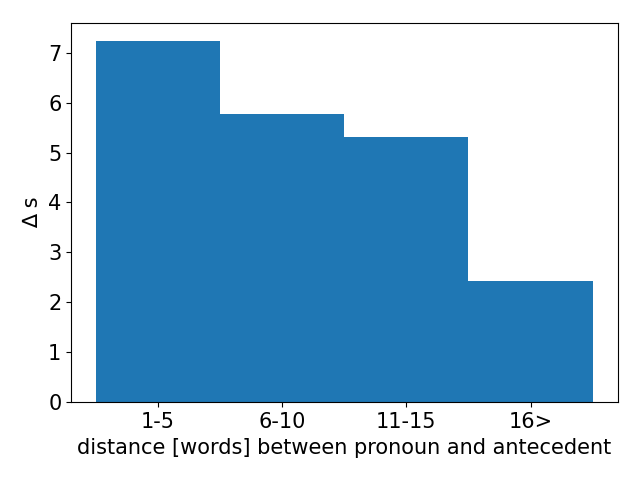
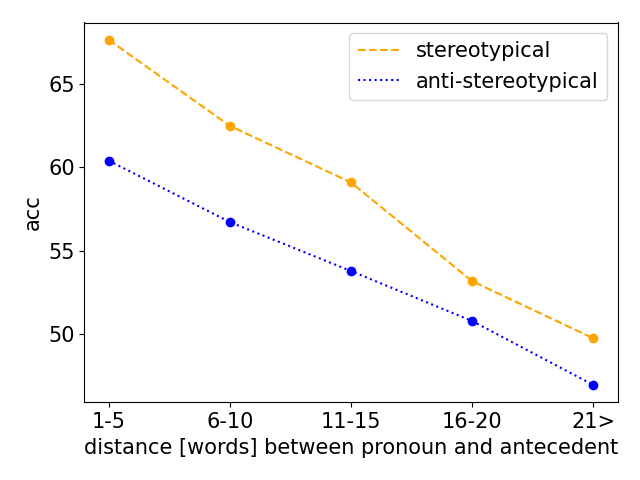
coref evaluations

diff --git a/src/evaluations/evaluate_coref.py b/src/evaluations/evaluate_coref.py
@@ -4,9 +4,9 @@
 Options:
   --help                           Show this message and exit
   -i INPUT_FILE --in=INPUT_FILE    Input file
-                                   [default: infile.tmp]
+                                   [default: ../../predictions/coref_preds.jsonl]
   -o INPUT_FILE --out=OUTPUT_FILE  Input file
-                                   [default: outfile.tmp]
+                                   [default: ../../visualizations/delta_s_by_dist.png]
   --debug                          Whether to debug
 """
 # External imports
@@ -85,15 +85,20 @@ def get_delta_s_by_dist(dist_metric):
                                 len(ste) + len(ant)))
     return delta_s_by_dist
 
-def get_acc_by_dist(dist_metric):
+def get_simple_metric_by_dist(dist_metric, metric_name):
     """
-    Compute delta s by distance
+    Aggregate over a given metric by dist.
     """
     dists = sorted(dist_metric.keys())
-    acc_by_dist = []
+    met_by_dist = []
     for dist in dists:
-        acc_by_dist.append(get_acc(dist_metric[dist]["acc"]))
-    return acc_by_dist
+        met_by_dist.append(get_acc(dist_metric[dist][metric_name]))
+    return met_by_dist
+
+# Simple instantiations
+get_acc_by_dist = lambda dist_metric: get_simple_metric_by_dist(dist_metric, "acc")
+get_ste_by_dist = lambda dist_metric: get_simple_metric_by_dist(dist_metric, 1)
+get_ant_by_dist = lambda dist_metric: get_simple_metric_by_dist(dist_metric, -1)
 
 def average_buckets(b1, b2):
     """
@@ -162,10 +167,12 @@ if __name__ == "__main__":
     delta_s = get_acc(metrics["ste"]) - get_acc(metrics["ant"])
     delta_s_by_dist = get_delta_s_by_dist(metrics["distance"])
     acc_by_dist = get_acc_by_dist(metrics["distance"])
+    ste_by_dist = get_ste_by_dist(metrics["distance"])
+    ant_by_dist = get_ant_by_dist(metrics["distance"])
 
     # average last bucket
-    delta_s_by_dist[-2] = average_buckets(delta_s_by_dist[-2], delta_s_by_dist[-1])
-    delta_s_by_dist = delta_s_by_dist[:-1]
+    # delta_s_by_dist[-2] = average_buckets(delta_s_by_dist[-2], delta_s_by_dist[-1])
+    # delta_s_by_dist = delta_s_by_dist[:-1]
 
     logging.info(f"acc = {acc:.1f}; delta_g = {delta_g:.1f}; delta_s = {delta_s:.1f}")
     logging.info(f"delta s by dist = {delta_s_by_dist}")
@@ -179,12 +186,18 @@ if __name__ == "__main__":
     y_pos = np.arange(len(ranges))
     width = 1 # the width for the bars
 
+    plt.plot(y_pos, ste_by_dist, label = "stereotypical",
+             color = "orange", linestyle = "dashed")
+    plt.scatter(y_pos, ste_by_dist, color = "orange")
 
+    plt.plot(y_pos, ant_by_dist, label = "anti-stereotypical",
+             color = "blue", linestyle = "dotted")
+    plt.scatter(y_pos, ant_by_dist, color = "blue")
 
-    plt.bar(y_pos, values_ds, width, label="∆ s")
     plt.xticks(y_pos, ranges)
-    plt.ylabel("∆ s")
+    plt.ylabel("acc")
     plt.xlabel("distance [words] between pronoun and antecedent")
+    plt.legend()
     plt.tight_layout()
     plt.savefig(out_fn)
 

diff --git a/README.md b/README.md
@@ -1,5 +1,5 @@
 # BUG Dataset 
-A Large-Scale Gender Bias Dataset for Coreference Resolution and Machine Translation, Levy et al., EMNLP 2021.
+A Large-Scale Gender Bias Dataset for Coreference Resolution and Machine Translation, Levy et al., Findings of EMNLP 2021.
 
 ## Dataset Partitions
 
